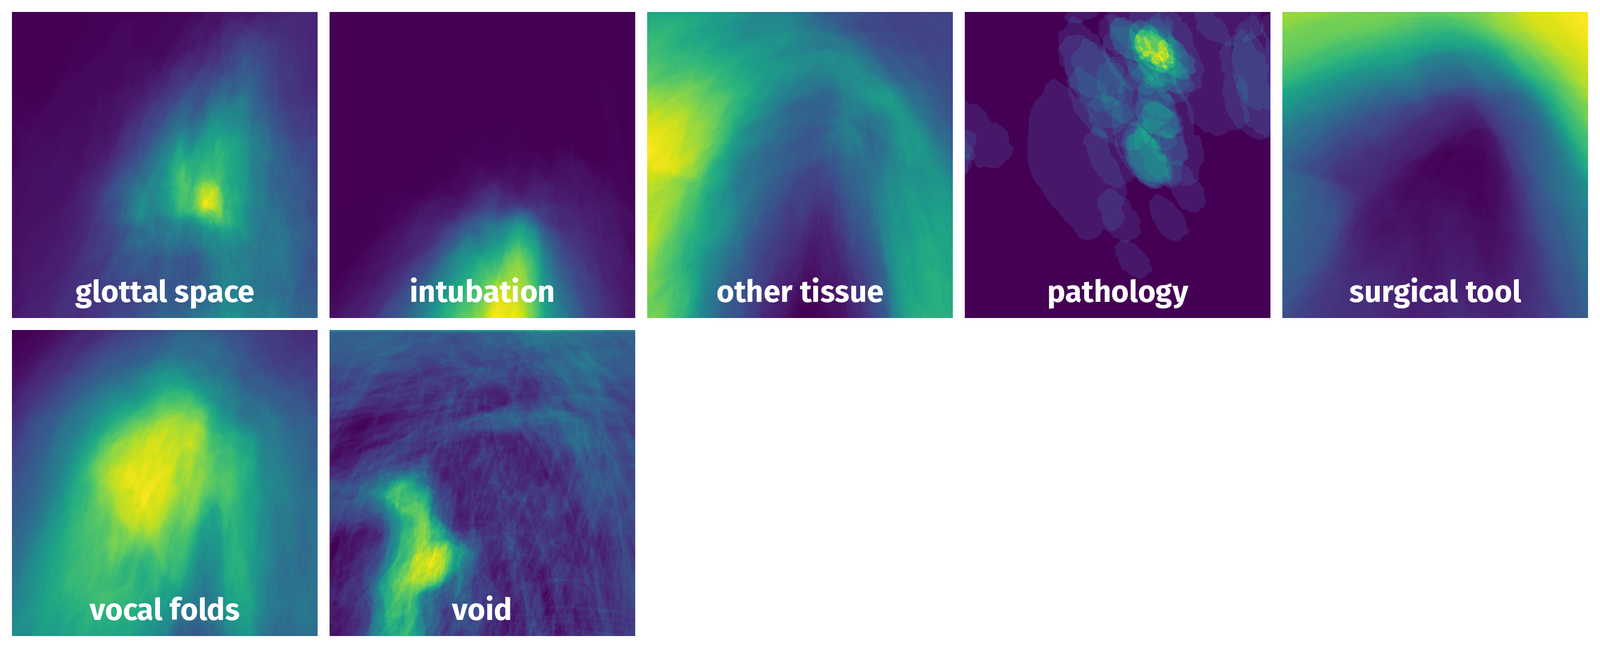
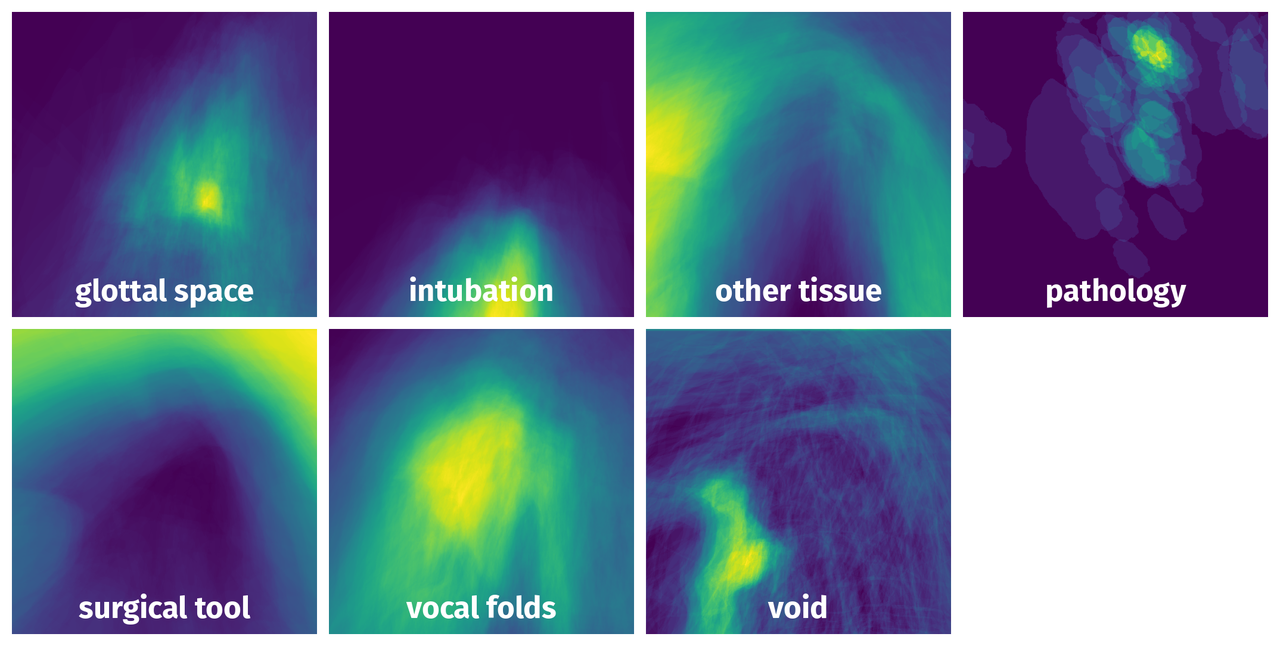
some check

diff --git a/src/options.py b/src/options.py
@@ -1,6 +1,8 @@
-from dataset_tools.templates import AnnotationType
-from src.settings import ANNOTATION_TYPES
 from typing import List
+
+from dataset_tools.templates import AnnotationType
+
+from src.settings import ANNOTATION_TYPES
 
 ###############################################################################
 # ! Set up values if you want to change default values of visualizations
@@ -69,8 +71,8 @@ CLASSES_PREVIEW_TAGS: List[str] = None
 ### * Set up visualization params for ClassesHeatmaps class ###
 # args for "to_image" method
 DRAW_STYLE: str = None  # "inside_white" or "outside_black"
-HEATMAP_ROWS: int = None
-HEATMAP_COLS: int = None
+HEATMAP_ROWS: int = 2
+HEATMAP_COLS: int = 4
 HEATMAP_GRID_SPACING: int = None
 HEATMAP_OUTER_GRID_SPACING: int = None
 HEATMAP_OUTPUT_WIDTH: int = (

diff --git a/ABSTRACT.md b/ABSTRACT.md
@@ -18,6 +18,6 @@ The dataset consists of 5 different sequences from two patients. The sequences h
 
 Subsequent images have a temporal contiguity as they are sampled uniformly from videos. To reduce inter-frame correlation, images were extracted from the original videos only once per second. In the comparative study SEQ4–SEQ6 were not used due to high similarity to SEQ3 and SEQ7 respectively, as they do not offer any additional variance to the dataset. Segmentations have been manually created on a pen display (DTK-2241, K. K. Wacom).
 
-<img src="https://github.com/dataset-ninja/vocalfolds/assets/120389559/237e8a74-61f7-453c-a7b6-a64bb9c9610c" alt="image" width="1000">
+<img src="https://github.com/dataset-ninja/vocalfolds/assets/120389559/237e8a74-61f7-453c-a7b6-a64bb9c9610c" alt="image" width="800">
 
 <span style="font-size: smaller; font-style: italic;">Number of annotated pixels per class in the dataset.</span>
